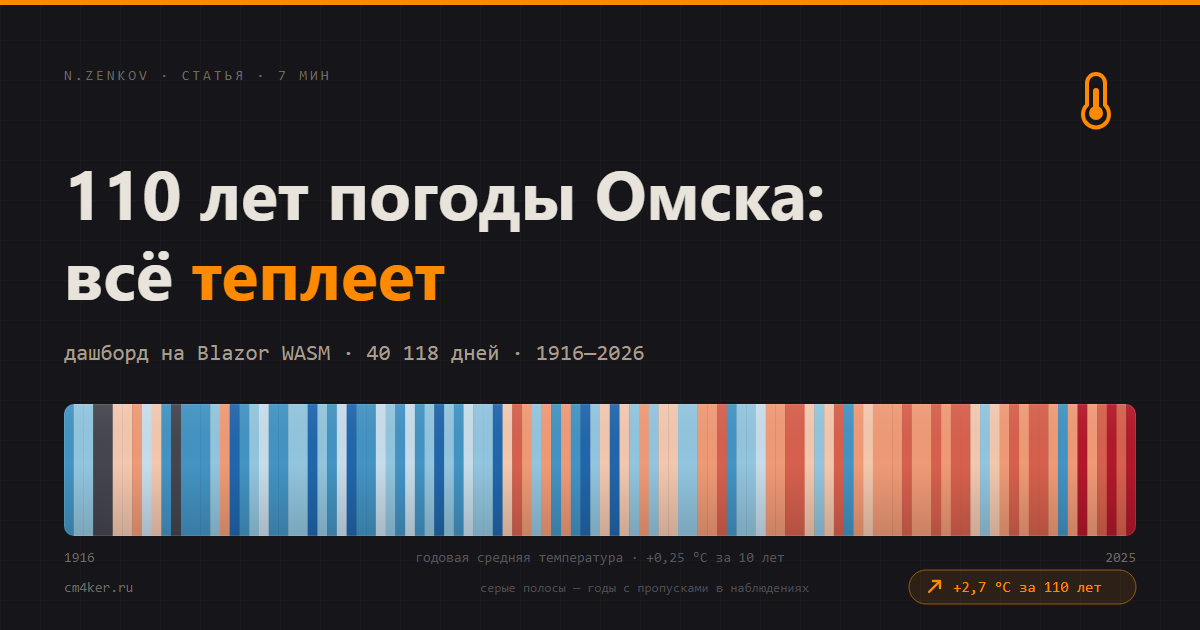
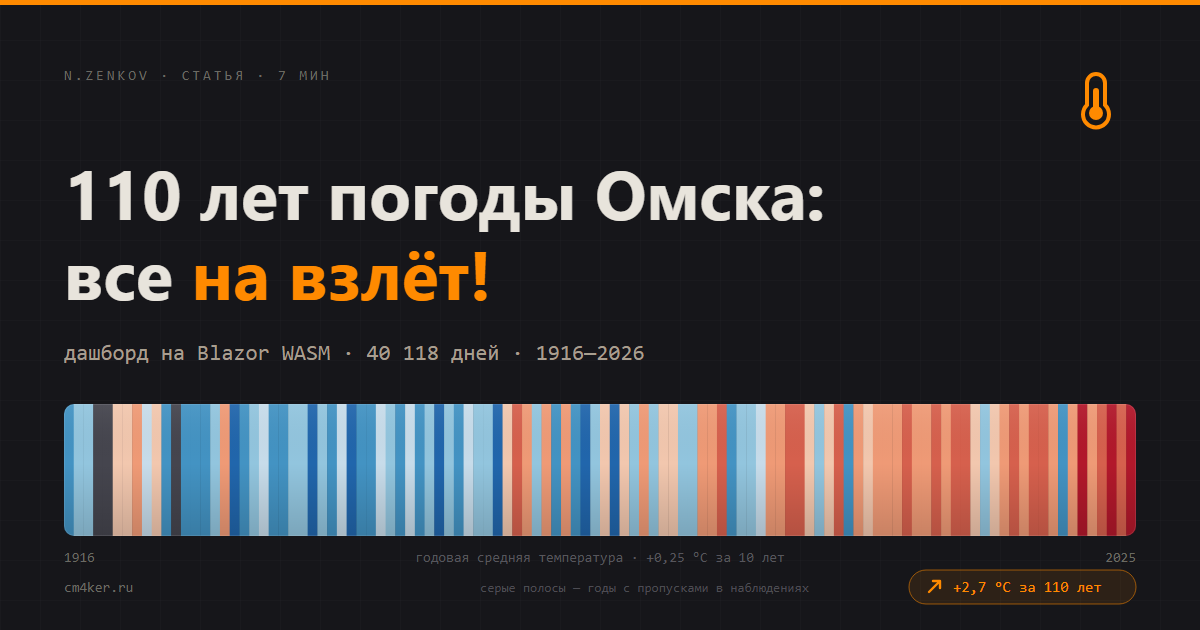
Легенда на годовом графике и новое название
Пояснения про столбики, линию и пунктир переехали из текста статьи
в легенду под графиком, образец столбика красится по текущей вкладке.
Обложка перерисована под заголовок «все на взлёт!».

Changed region(s): [[0.1542, 0.3921, 0.4317, 0.4825], [0.1233, 0.3921, 0.1542, 0.4222]]

diff --git a/src/components/OmskAnnualChart.tsx b/src/components/OmskAnnualChart.tsx
@@ -215,10 +215,24 @@ const OmskAnnualChart: React.FC = () => {
       </svg>
 
       <figcaption className="wx__legend">
-        <span className="wx__key wx__key--zero">норма 1941—1970: {fmt(norm, metric.digits)} {metric.unit}</span>
-        <span className="wx__key wx__key--smooth">среднее за 11 лет</span>
+        <span
+          className="wx__key wx__key--bars"
+          style={
+            {
+              "--k-up": `oklch(63% 0.15 ${metric.hueUp})`,
+              "--k-down": `oklch(63% 0.15 ${metric.hueDown})`,
+            } as React.CSSProperties
+          }
+        >
+          столбик — отклонение года от нормы
+        </span>
+        <span className="wx__key wx__key--zero">
+          норма 1941—1970: {fmt(norm, metric.digits)} {metric.unit}
+        </span>
+        <span className="wx__key wx__key--smooth">линия — среднее за 11 лет</span>
         <span className="wx__key wx__key--trend">
-          тренд с {metric.trendFrom}: {signed(trend.perDecade, metric.digits === 0 ? 0 : 2)} {metric.unit} за 10 лет
+          пунктир — тренд с {metric.trendFrom}: {signed(trend.perDecade, metric.digits === 0 ? 0 : 2)} {metric.unit} за
+          10 лет
         </span>
       </figcaption>
     </figure>

diff --git a/src/App.css b/src/App.css
@@ -834,6 +834,15 @@ footer.site-footer {
   height: 0;
   border-top: 2px solid currentColor;
 }
+/* столбики вверх/вниз от нулевой линии; цвета приходят из компонента по метрике */
+.wx__key--bars::before {
+  width: 16px;
+  height: 14px;
+  border-top: 0;
+  background:
+    linear-gradient(var(--k-up), var(--k-up)) 0 0 / 6px 7px no-repeat,
+    linear-gradient(var(--k-down), var(--k-down)) 10px 7px / 6px 5px no-repeat;
+}
 .wx__key--zero::before { border-top: 1px solid color-mix(in oklch, var(--fg) 45%, transparent); }
 .wx__key--smooth::before { border-top-color: var(--fg); }
 .wx__key--trend::before { border-top: 2px dashed var(--accent); }

diff --git a/content/articles/omsk-weather-dashboard.md b/content/articles/omsk-weather-dashboard.md
@@ -1,8 +1,8 @@
 ---
-title: "110 лет погоды Омска: всё теплеет"
+title: "110 лет погоды Омска: все на взлёт!"
 date: 2026-08-04
 ---
-Немного не успел к годовщине, но да ладно. Всё равно занимательно. 
+Немного не успел к годовщине для города, но да ладно. Всё равно занимательно. 
 
 Собрал дашборд по климату Омска: [weather.cm4ker.ru](https://weather.cm4ker.ru). Данные — измерения метеостанции Омск (индекс ВМО 28698), с 1 января 1916 года по вчерашний день, 40 118 суток. Исходники лежат в [cm4ker/weather](https://github.com/cm4ker/weather).
 
@@ -23,17 +23,17 @@ date: 2026-08-04
 
 ## Сначала я взял не те данные
 
-Первая версия дашборда работала на архивном API [Open-Meteo](https://open-meteo.com/). Уже дописывая эту статью, я внезапно осознал, что это не наблюдения, а **реанализ ERA5**: модель атмосферы, которую притягивают к тем наблюдениям, что удалось собрать. А это уже не спортивно.
+Первая версия дашборда работала на архивном API [Open-Meteo](https://open-meteo.com/). Уже дописывая эту статью, я внезапно осознал, что это не наблюдения, а **реанализ ERA5**: модель атмосферы, которую притягивают к тем наблюдениям, что удалось собрать. Мне показалось это не совсем спортивно.
 
 Пришлось собрать второй ряд — из настоящих станционных сводок. Основа — [GHCNd](https://www.ncei.noaa.gov/products/land-based-station/global-historical-climatology-network-daily) от NOAA с 1916 года, дыры закрыты 8-срочными наблюдениями с [rp5.ru](https://rp5.ru/), остатки — Meteostat и ISD-Lite. С 1940 года пропущенных суток нет ни одних.
 
-Сверил два ряда день в день: в целом они сходятся, но не везде. Реанализ занижает тренд на четверть (+0,28 °C за десятилетие против +0,37), сглаживает суточный ход и не знает рекорда **+40,4 °C 18 июля 1940 года** — у него максимум за всю историю всего +37,5 °C. Так что дашборд работает на станционном ряде, а сверка осталась в репозитории: `station_import.cs` и `compare_era5.cs`.
+Сверил два ряда день в день: в целом они сходятся, но не везде. Так что дашборд работает на станционном ряде.
 
 ## Что видно в данных
 
-Годовая средняя температура в Омске растёт на **+0,37 °C за десятилетие** начиная с 1940 года. Это **+3,1 °C** по линии тренда за 86 лет. Если брать весь ряд с 1916-го — +0,25 °C за десятилетие, около +2,7 °C за 110 лет: ранняя часть ряда была теплее, чем можно ожидать, и она немного гасит наклон.
+Годовая средняя температура в Омске растёт на **+0,37 °C за десятилетие** начиная с 1940 года. Это **+3,1 °C** по линии тренда за 86 лет! Если брать весь ряд с 1916-го — +0,25 °C за десятилетие, около +2,7 °C за 110 лет: ранняя часть ряда была теплее, чем можно ожидать.
 
-Вот весь ряд целиком. Столбик — отклонение года от нормы 1941—1970, чёрная(или белая линия для тёмной темы) линия — среднее за одиннадцать лет, пунктир — линейный тренд с 1940 года (у зимы — с 1941-го: зима 1940 года начинается ещё в декабре 1939-го). Вкладки сверху переключают величину, наведение показывает конкретный год:
+Вот весь ряд целиком. Вкладки сверху переключают срез — год, зима, лето, осадки, — наведение показывает конкретный год, а что есть что написано в легенде под графиком (у зимы тренд считается с 1941 года: зима 1940-го начинается ещё в декабре 1939-го):
 
 <omsk-annual></omsk-annual>
 
